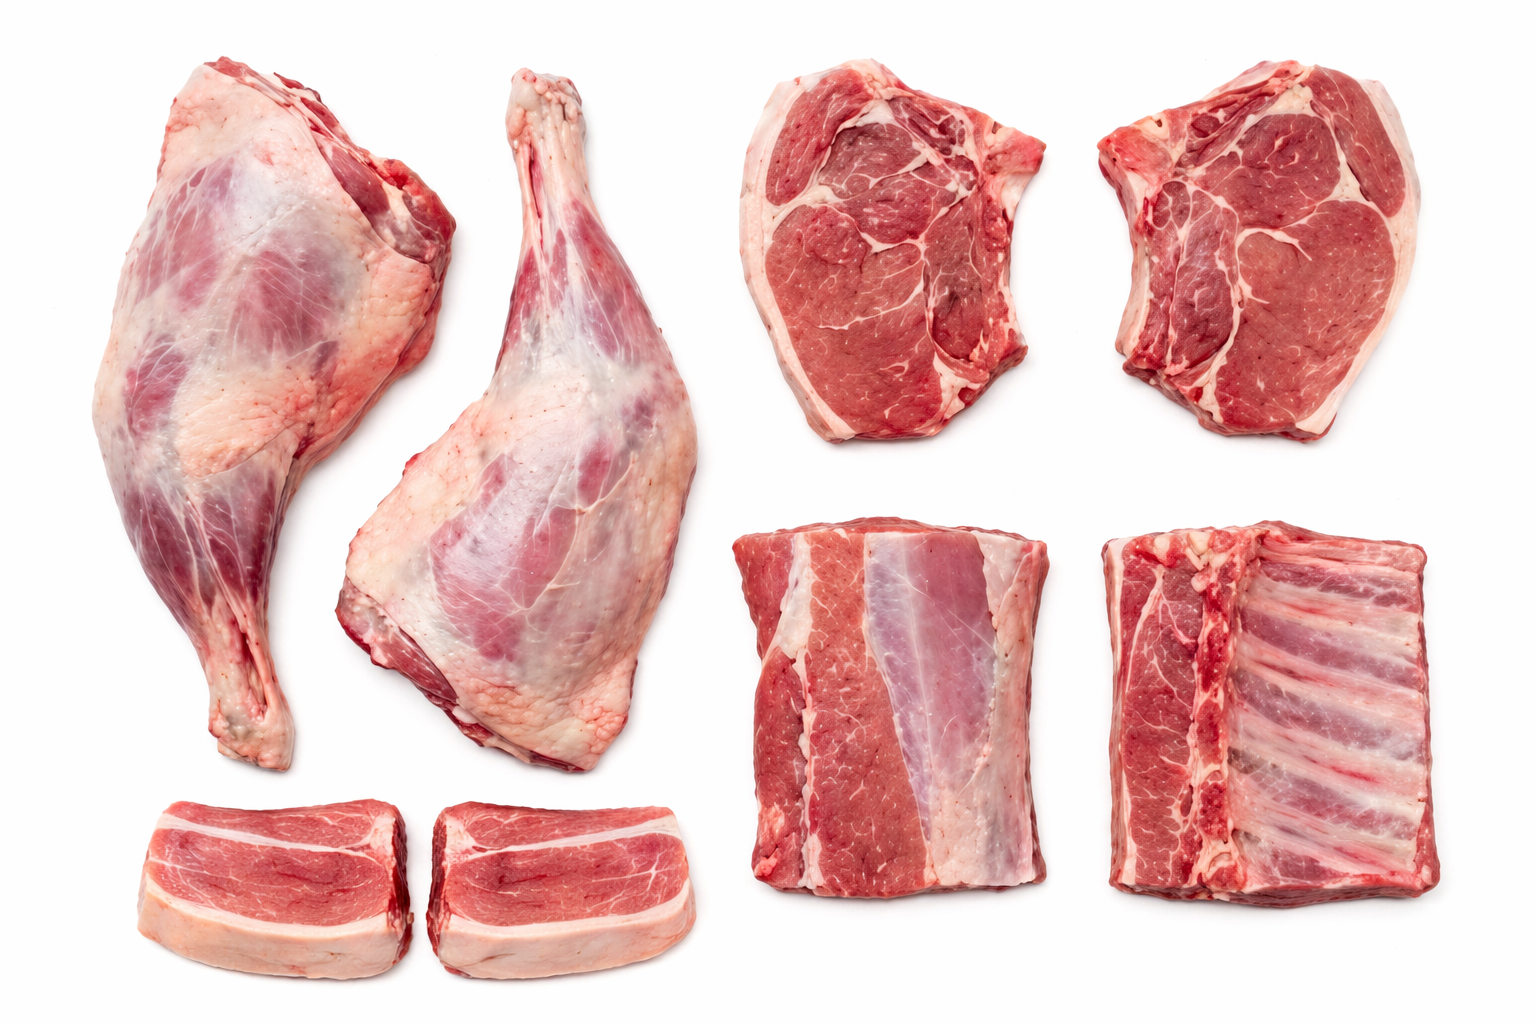
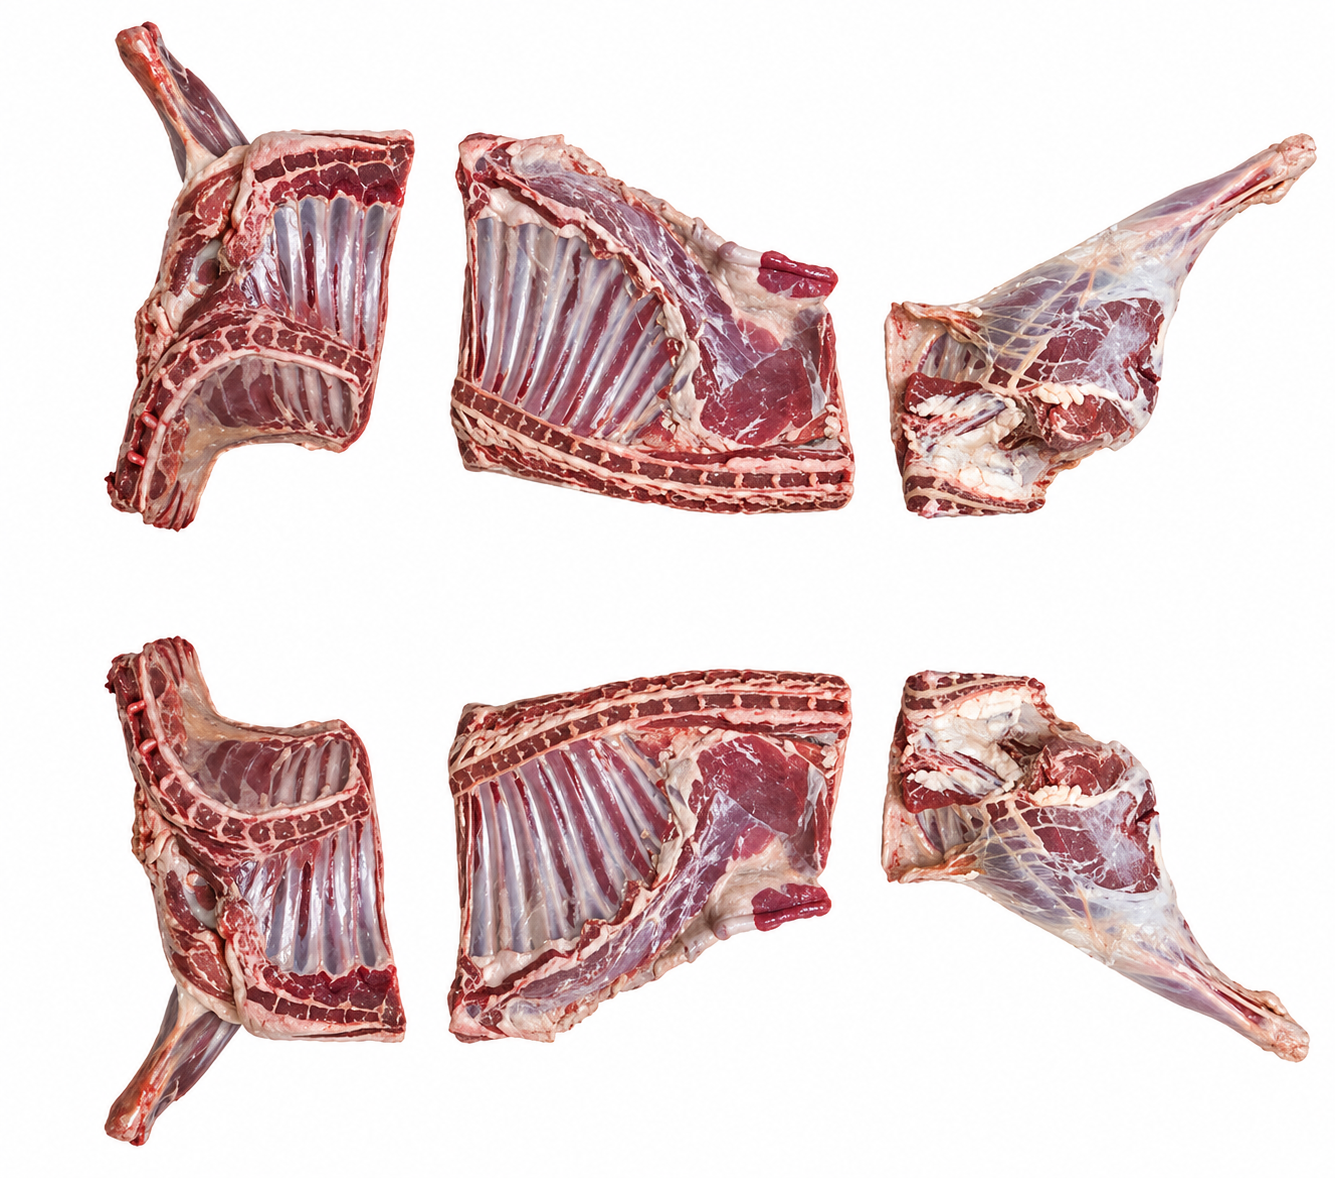
update images

diff --git a/lib/product-images.ts b/lib/product-images.ts
@@ -201,7 +201,7 @@ import imgBele from '@/public/images/bele.webp';
 import imgDuruka from '@/public/images/duruka.png';
 import imgJackfruit from '@/public/images/jackfruit.png';
 import imgTaroLeaves from '@/public/images/taro-leaves.png';
-import imgBreadfruit5lb from '@/public/images/breadfruit-5lb.webp';
+import imgBreadfruit5lb from '@/public/images/breadfruit-5lb.png';
 import imgTahitianChestnutIvi from '@/public/images/tahitian-chestnut-ivi.png';
 import imgParanthasPlainValuePack from '@/public/images/paranthas-plain-value-pack.webp';
 import imgAnchorButterNewZealand from '@/public/images/anchor-butter-new-zealand.webp';
@@ -461,7 +461,7 @@ export const PRODUCT_IMAGE_BY_SLUG: Record<ProductSlug, StaticImageData> = {
 	'sunquick-mango-juice-concentrate': imgSunquickMangoJuiceConcentrate,
 	'bula-noni-fiji-islands': imgBulaNoniFijiIslands,
 	'nestle-smarties-50g': imgNestleSmarties50g,
-	'nestle-milkybar-classic-50g': imgNestleMilkybarClassic50g,
+	'nestle-milkybar-classic': imgNestleMilkybarClassic50g,
 	'nestle-kitkat-chunky-milo-44g': imgNestleKitkatChunkyMilo44g,
 	'jasons-black-hacks-150g': imgJasonsBlackHacks150g,
 	'jasons-clear-mints-150g': imgJasonsClearMints150g,
@@ -706,7 +706,7 @@ export const PRODUCT_IMAGE_PATH_BY_SLUG: Record<ProductSlug, string> = {
 	'sunquick-mango-juice-concentrate': '/images/sunquick-mango-juice-concentrate.webp',
 	'bula-noni-fiji-islands': '/images/bula-noni-fiji-islands.webp',
 	'nestle-smarties-50g': '/images/nestle-smarties-50g.png',
-	'nestle-milkybar-classic-50g': '/images/nestle-milkybar-classic-50g.png',
+	'nestle-milkybar-classic': '/images/nestle-milkybar-classic-50g.png',
 	'nestle-kitkat-chunky-milo-44g': '/images/nestle-kitkat-chunky-milo-44g.png',
 	'jasons-black-hacks-150g': '/images/jasons-black-hacks-150g.png',
 	'jasons-clear-mints-150g': '/images/jasons-clear-mints-150g.png',

diff --git a/lib/products.ts b/lib/products.ts
@@ -241,7 +241,7 @@ export const PRODUCT_SLUGS = [
 	'sunquick-orange-juice-concentrate',
 	'sunquick-mango-juice-concentrate',
 	'nestle-smarties-50g',
-	'nestle-milkybar-classic-50g',
+	'nestle-milkybar-classic',
 	'nestle-kitkat-chunky-milo-44g',
 	'jasons-black-hacks-150g',
 	'jasons-clear-mints-150g',
